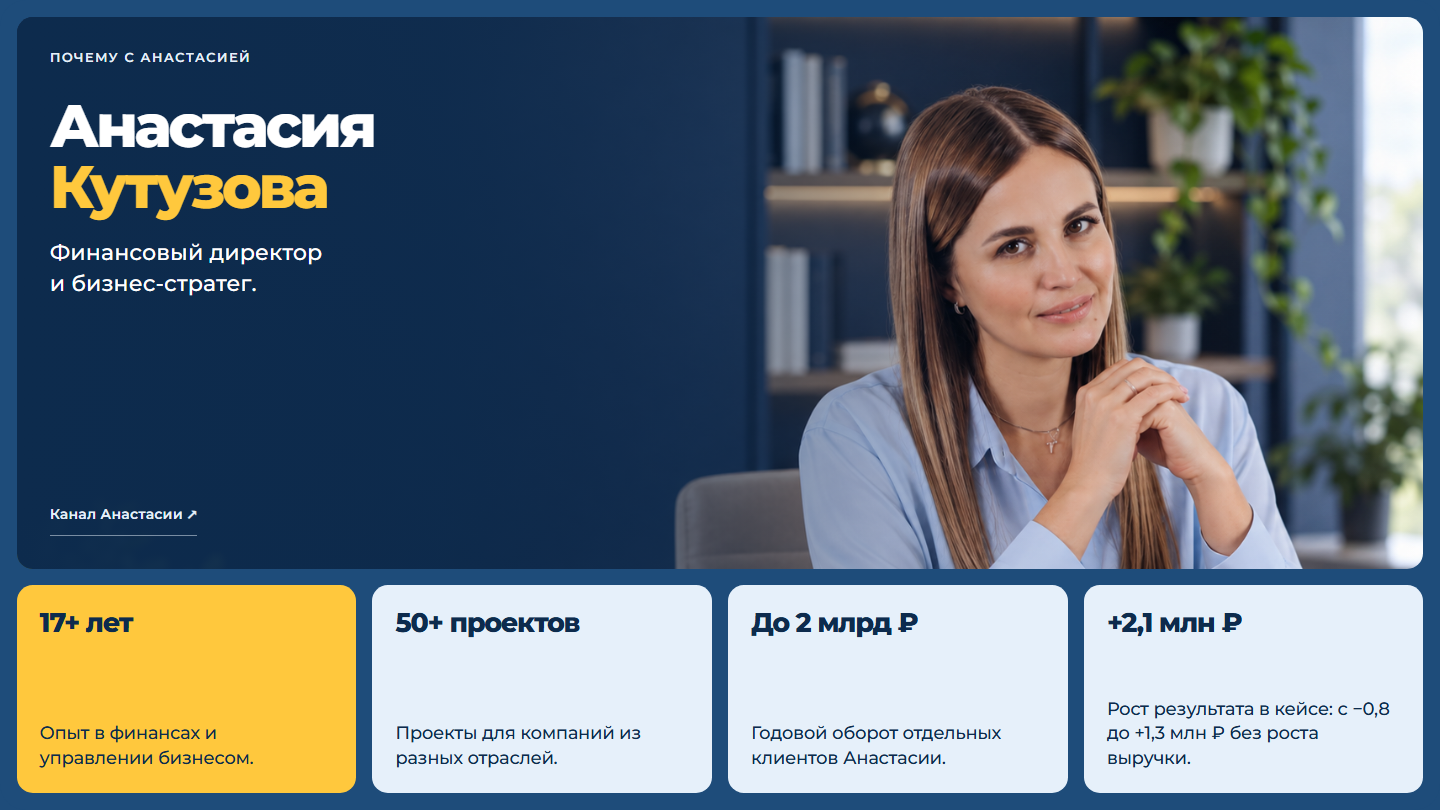
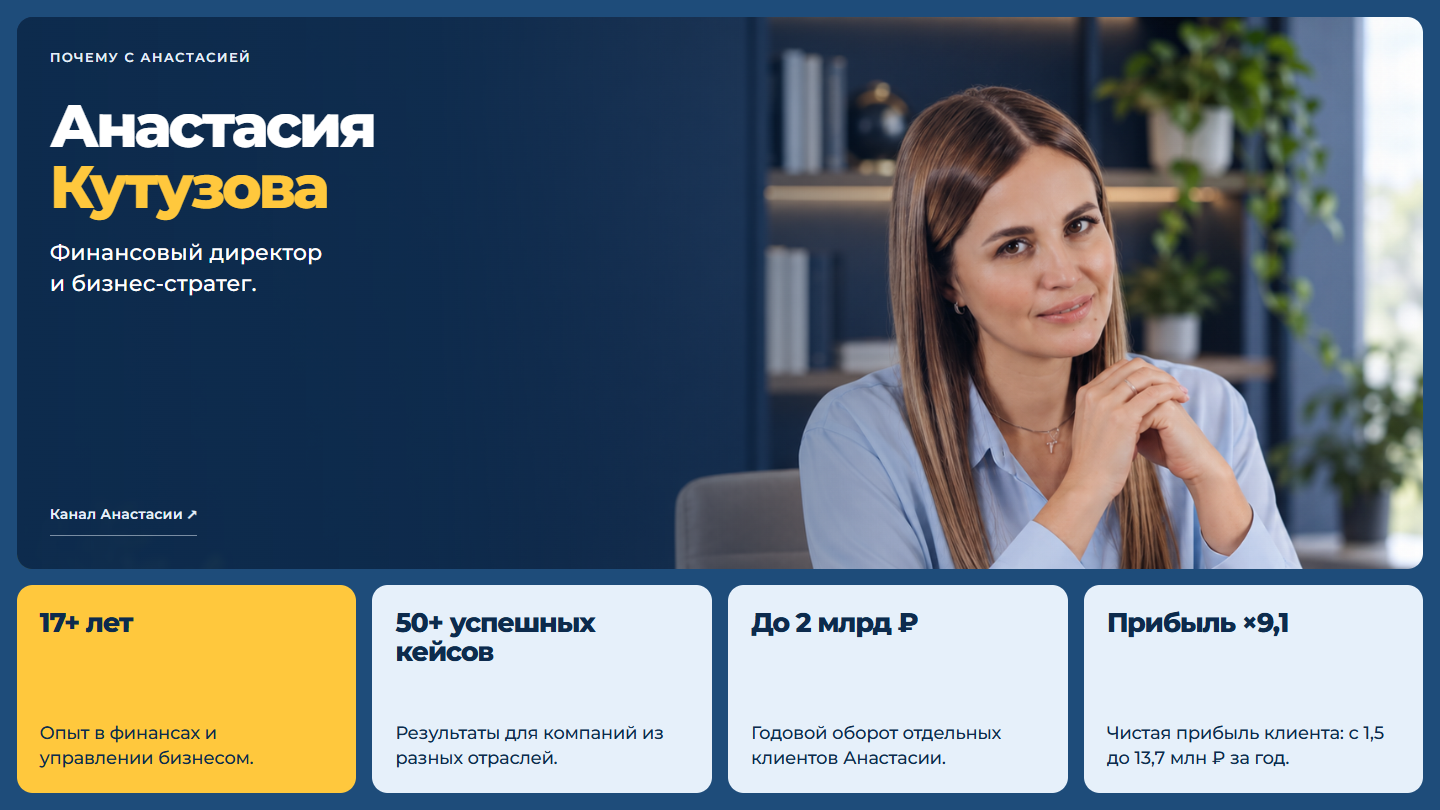
Update Anastasia case and success metric

diff --git a/index.html b/index.html
@@ -44,7 +44,7 @@ body::-webkit-scrollbar,html::-webkit-scrollbar{display:none;width:0;height:0}
 <section class="page"><div class="frame"><img src="assets/slides/slide-01.png?v=4" alt="Слайд 1. Совместный эфир с Анастасией Кутузовой" draggable="false"></div></section>
 <section class="page"><div class="frame"><img src="assets/slides/slide-02.png?v=4" alt="Слайд 2. Концепция совместного эфира" draggable="false"></div></section>
 <section class="page"><div class="frame"><img src="assets/slides/slide-03.png?v=4" alt="Слайд 3. Что получает канал и аудитория" draggable="false"></div></section>
-<section class="page"><div class="frame"><img src="assets/slides/slide-04.png?v=4" alt="Слайд 4. Анастасия Кутузова" draggable="false"><a class="hotspot" href="https://t.me/kutuzova_profinance" target="_blank" rel="noopener" aria-label="Открыть Telegram-канал Анастасии" style="left:2%;top:55%;width:25%;height:18%"></a></div></section>
+<section class="page"><div class="frame"><img src="assets/slides/slide-04.png?v=5" alt="Слайд 4. Анастасия Кутузова" draggable="false"><a class="hotspot" href="https://t.me/kutuzova_profinance" target="_blank" rel="noopener" aria-label="Открыть Telegram-канал Анастасии" style="left:2%;top:55%;width:25%;height:18%"></a></div></section>
 <section class="page"><div class="frame"><img src="assets/slides/slide-05.png?v=4" alt="Слайд 5. Партнёрское вознаграждение" draggable="false"></div></section>
 <section class="page"><div class="frame"><img src="assets/slides/slide-06.png?v=4" alt="Слайд 6. Контакты для обсуждения эфира" draggable="false"><a class="hotspot" href="https://t.me/apolygalovv" target="_blank" rel="noopener" aria-label="Написать Артуру в Telegram" style="left:5%;top:68%;width:48%;height:11%"></a><a class="hotspot" href="https://t.me/kutuzova_profinance" target="_blank" rel="noopener" aria-label="Открыть Telegram-канал Анастасии" style="left:5%;top:80%;width:48%;height:11%"></a><a class="hotspot" href="https://t.me/apolygalovv" target="_blank" rel="noopener" aria-label="Открыть Telegram Артура по QR-блоку" style="left:65%;top:20%;width:28%;height:68%"></a></div></section>
 
